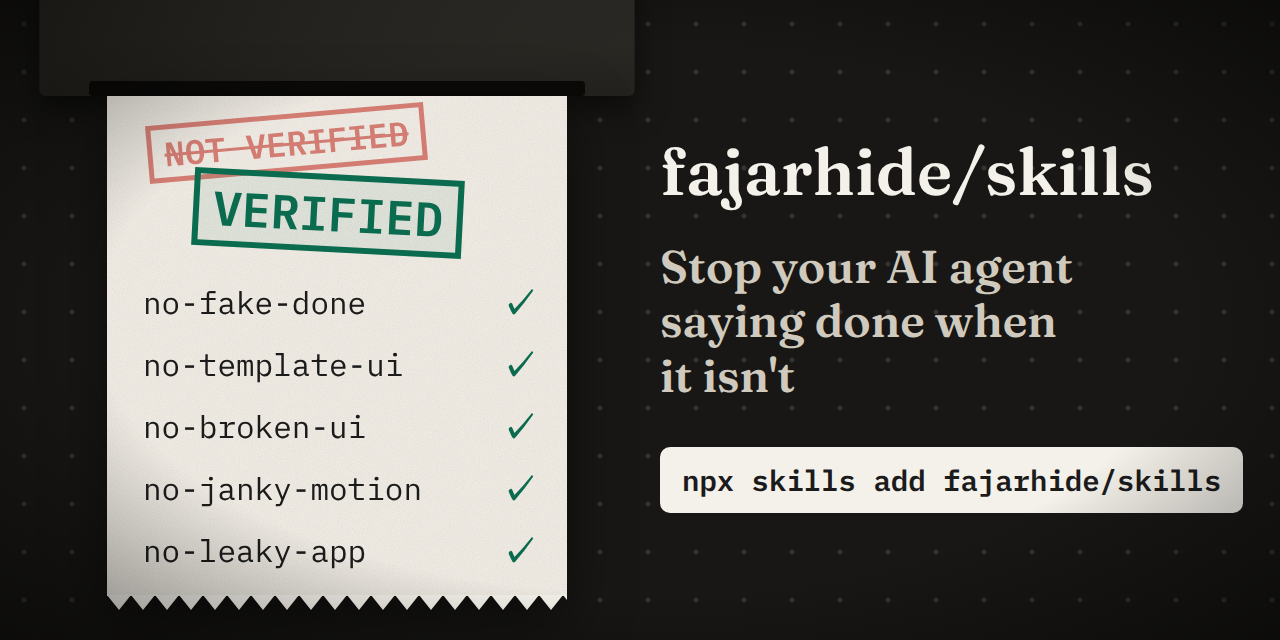
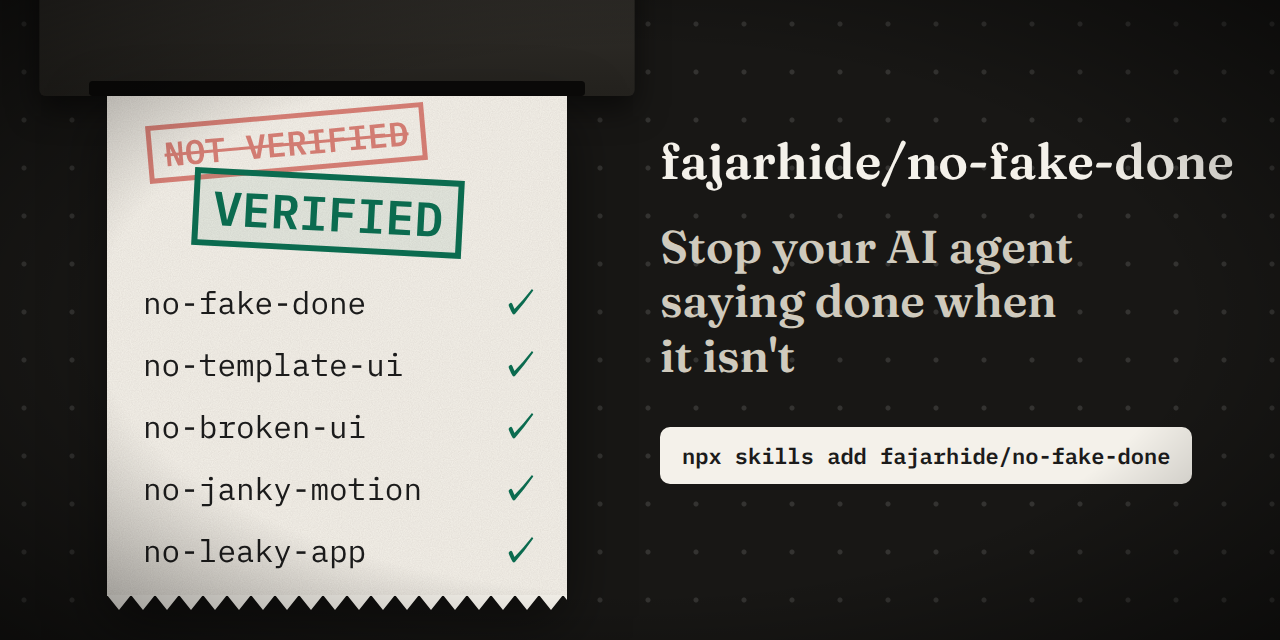
docs: rename the repo to fajarhide/no-fake-done
Install lines and the poster now use the new name. GitHub redirects the old
one, so existing installs keep working. The skills.sh badges still point at
the old listing, since the new path has no page until someone installs
through it.

Changed region(s): [[0.5, 0.6562, 0.9688, 0.8125], [0.5, 0.3438, 0.8438, 0.625], [0.5, 0.2188, 0.9688, 0.3438]]

diff --git a/README.md b/README.md
@@ -1,6 +1,6 @@
-# fajarhide/skills
+# no-fake-done
 
-<p align="center"><img src="assets/poster.png" width="840" alt="A thermal receipt stamped VERIFIED over NOT VERIFIED, listing no-fake-done, no-template-ui, no-broken-ui, no-janky-motion and no-leaky-app, each ticked, beside the line Stop your AI agent saying done when it isn't and the command npx skills add fajarhide/skills"></p>
+<p align="center"><img src="assets/poster.png" width="840" alt="A thermal receipt stamped VERIFIED over NOT VERIFIED, listing no-fake-done, no-template-ui, no-broken-ui, no-janky-motion and no-leaky-app, each ticked, beside the line Stop your AI agent saying done when it isn't and the command npx skills add fajarhide/no-fake-done"></p>
 
 Stop your AI agent saying done when it isn't.
 
@@ -27,14 +27,14 @@ Every skill here follows the same four rules.
 
 ```sh
 # All five skills, for your user
-npx skills add fajarhide/skills -g
+npx skills add fajarhide/no-fake-done -g
 
 # Or one of them
-npx skills add fajarhide/skills --skill no-template-ui -g
-npx skills add fajarhide/skills --skill no-broken-ui -g
-npx skills add fajarhide/skills --skill no-fake-done -g
-npx skills add fajarhide/skills --skill no-janky-motion -g
-npx skills add fajarhide/skills --skill no-leaky-app -g
+npx skills add fajarhide/no-fake-done --skill no-template-ui -g
+npx skills add fajarhide/no-fake-done --skill no-broken-ui -g
+npx skills add fajarhide/no-fake-done --skill no-fake-done -g
+npx skills add fajarhide/no-fake-done --skill no-janky-motion -g
+npx skills add fajarhide/no-fake-done --skill no-leaky-app -g
 
 # The skills measure pages in a browser
 pip install playwright && playwright install chromium

diff --git a/skills/no-janky-motion/README.md b/skills/no-janky-motion/README.md
@@ -7,7 +7,7 @@ The menu takes 600 ms to open, and people open it forty times a day. On a cheap 
 Checks the motion a page runs in a browser. `scripts/motion_probe.py` loads the page four times (normal, reduced motion, JavaScript off, CPU slowed 4x), performs one action, and records every animation and transition that starts, with its selector, properties, duration, easing and first keyframe, plus frame gaps and layout shift. The skill then has the agent reverse motions halfway, trigger them fast and use the keyboard, and report at most ten findings, each with its receipt.
 
 ```sh
-npx skills add fajarhide/skills --skill no-janky-motion -g
+npx skills add fajarhide/no-fake-done --skill no-janky-motion -g
 pip install playwright && playwright install chromium
 ```
 

diff --git a/skills/no-fake-done/README.md b/skills/no-fake-done/README.md
@@ -7,7 +7,7 @@ Your agent says "Done, all 20 tests pass." You merge it ten minutes before the d
 Runs a change from a one-line request to a PR, and makes every claim on the way carry a receipt: a test, a command and its output, a screenshot, a step someone can repeat. When the change touches a screen, it hands the look to `no-template-ui` and the check to `no-broken-ui`.
 
 ```sh
-npx skills add fajarhide/skills --skill no-fake-done -g
+npx skills add fajarhide/no-fake-done --skill no-fake-done -g
 ```
 
 Install all three skills to get the screen steps. Without the other two, the agent still writes the spec and the PR table, and it marks the screen rows Not verified.

diff --git a/skills/no-broken-ui/README.md b/skills/no-broken-ui/README.md
@@ -7,7 +7,7 @@ The screenshot looks finished. Then a customer double-clicks Pay and is charged 
 A UI and UX audit skill for AI coding agents. The agent opens your app in a real browser, tries to break it, and reports what it found. Every finding carries a receipt: the action it performed, a number it measured, or a judgment labelled as one.
 
 ```sh
-npx skills add fajarhide/skills --skill no-broken-ui -g
+npx skills add fajarhide/no-fake-done --skill no-broken-ui -g
 pip install playwright && playwright install chromium
 ```
 

diff --git a/skills/no-leaky-app/README.md b/skills/no-leaky-app/README.md
@@ -5,7 +5,7 @@ You add a strict Content-Security-Policy to the home page and call the app harde
 `no-leaky-app` makes the agent request one of each response your app sends, check every one against a table of headers and delivery rules, fix them in the one place every response passes through, and show the headers before and after.
 
 ```sh
-npx skills add fajarhide/skills --skill no-leaky-app -g
+npx skills add fajarhide/no-fake-done --skill no-leaky-app -g
 ```
 
 Use it on an app you own or are allowed to change.

diff --git a/skills/no-template-ui/README.md b/skills/no-template-ui/README.md
@@ -9,7 +9,7 @@ A skill for AI coding agents that gives a new web page a look of its own. It mak
 In our tests, pages built without a skill were marked as generic AI output in 6 of 8 judgments on the two standalone rounds, and pages built with this one in 0 of 8.
 
 ```sh
-npx skills add fajarhide/skills --skill no-template-ui -g
+npx skills add fajarhide/no-fake-done --skill no-template-ui -g
 pip install playwright && playwright install chromium
 ```
 
